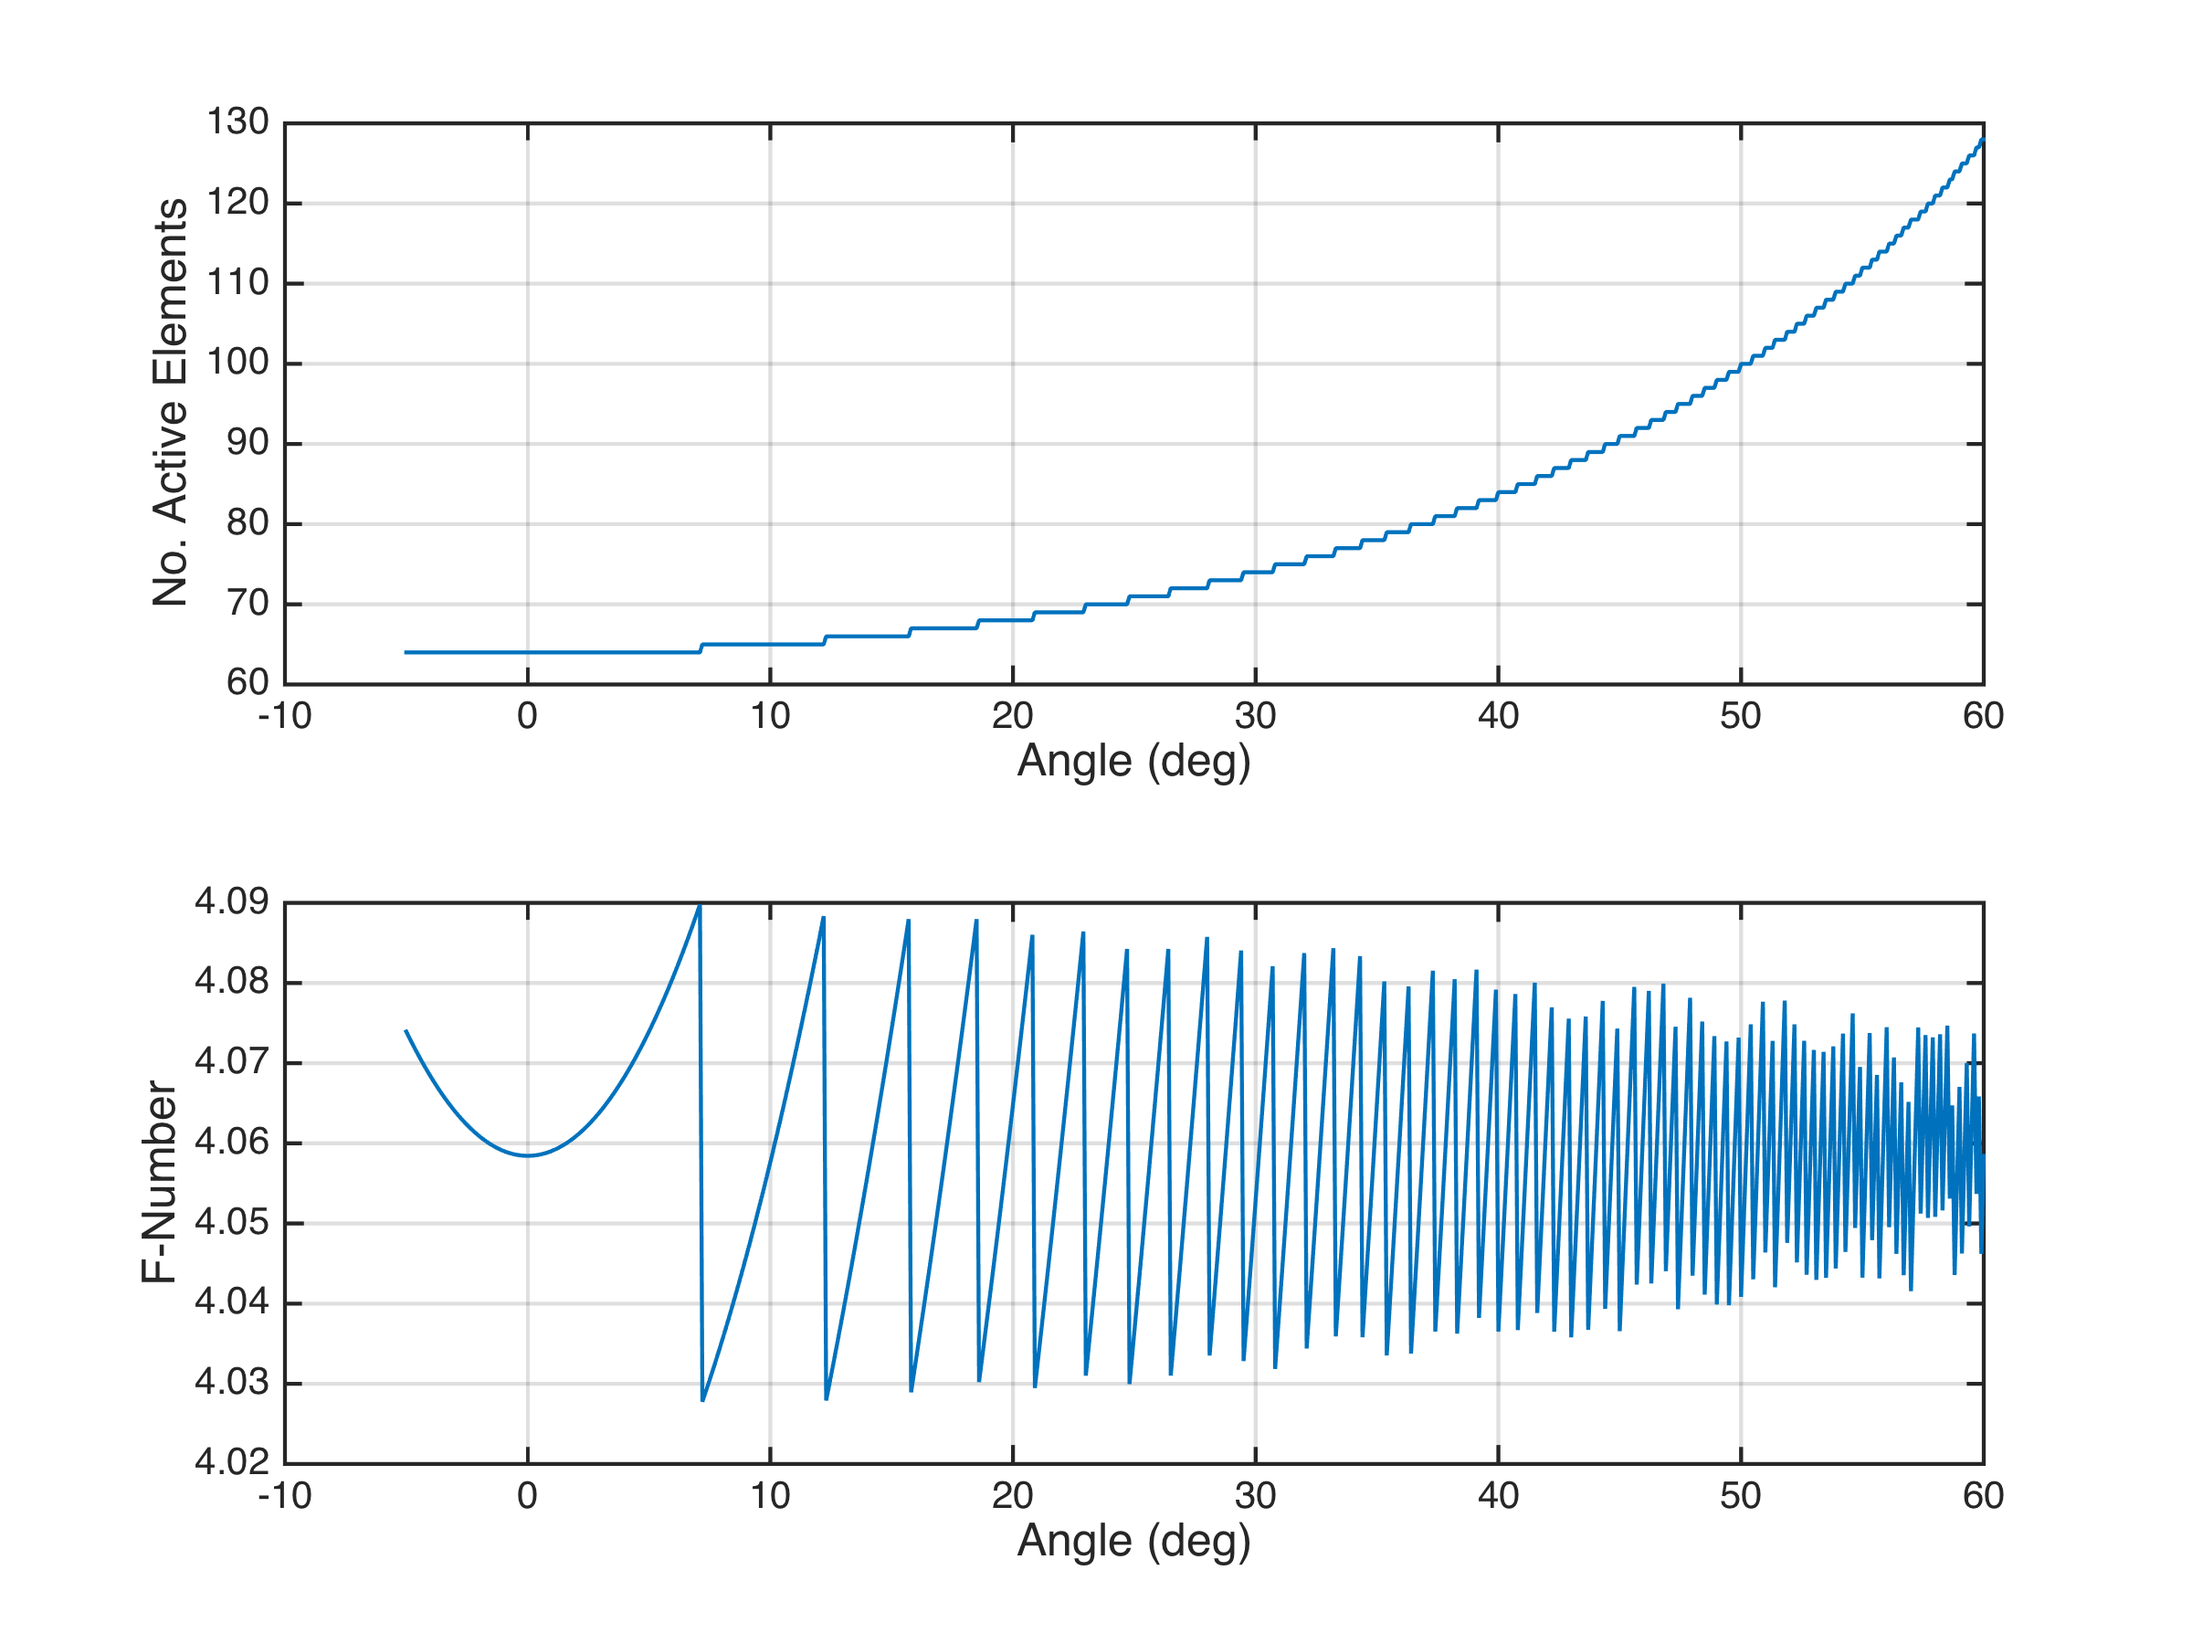
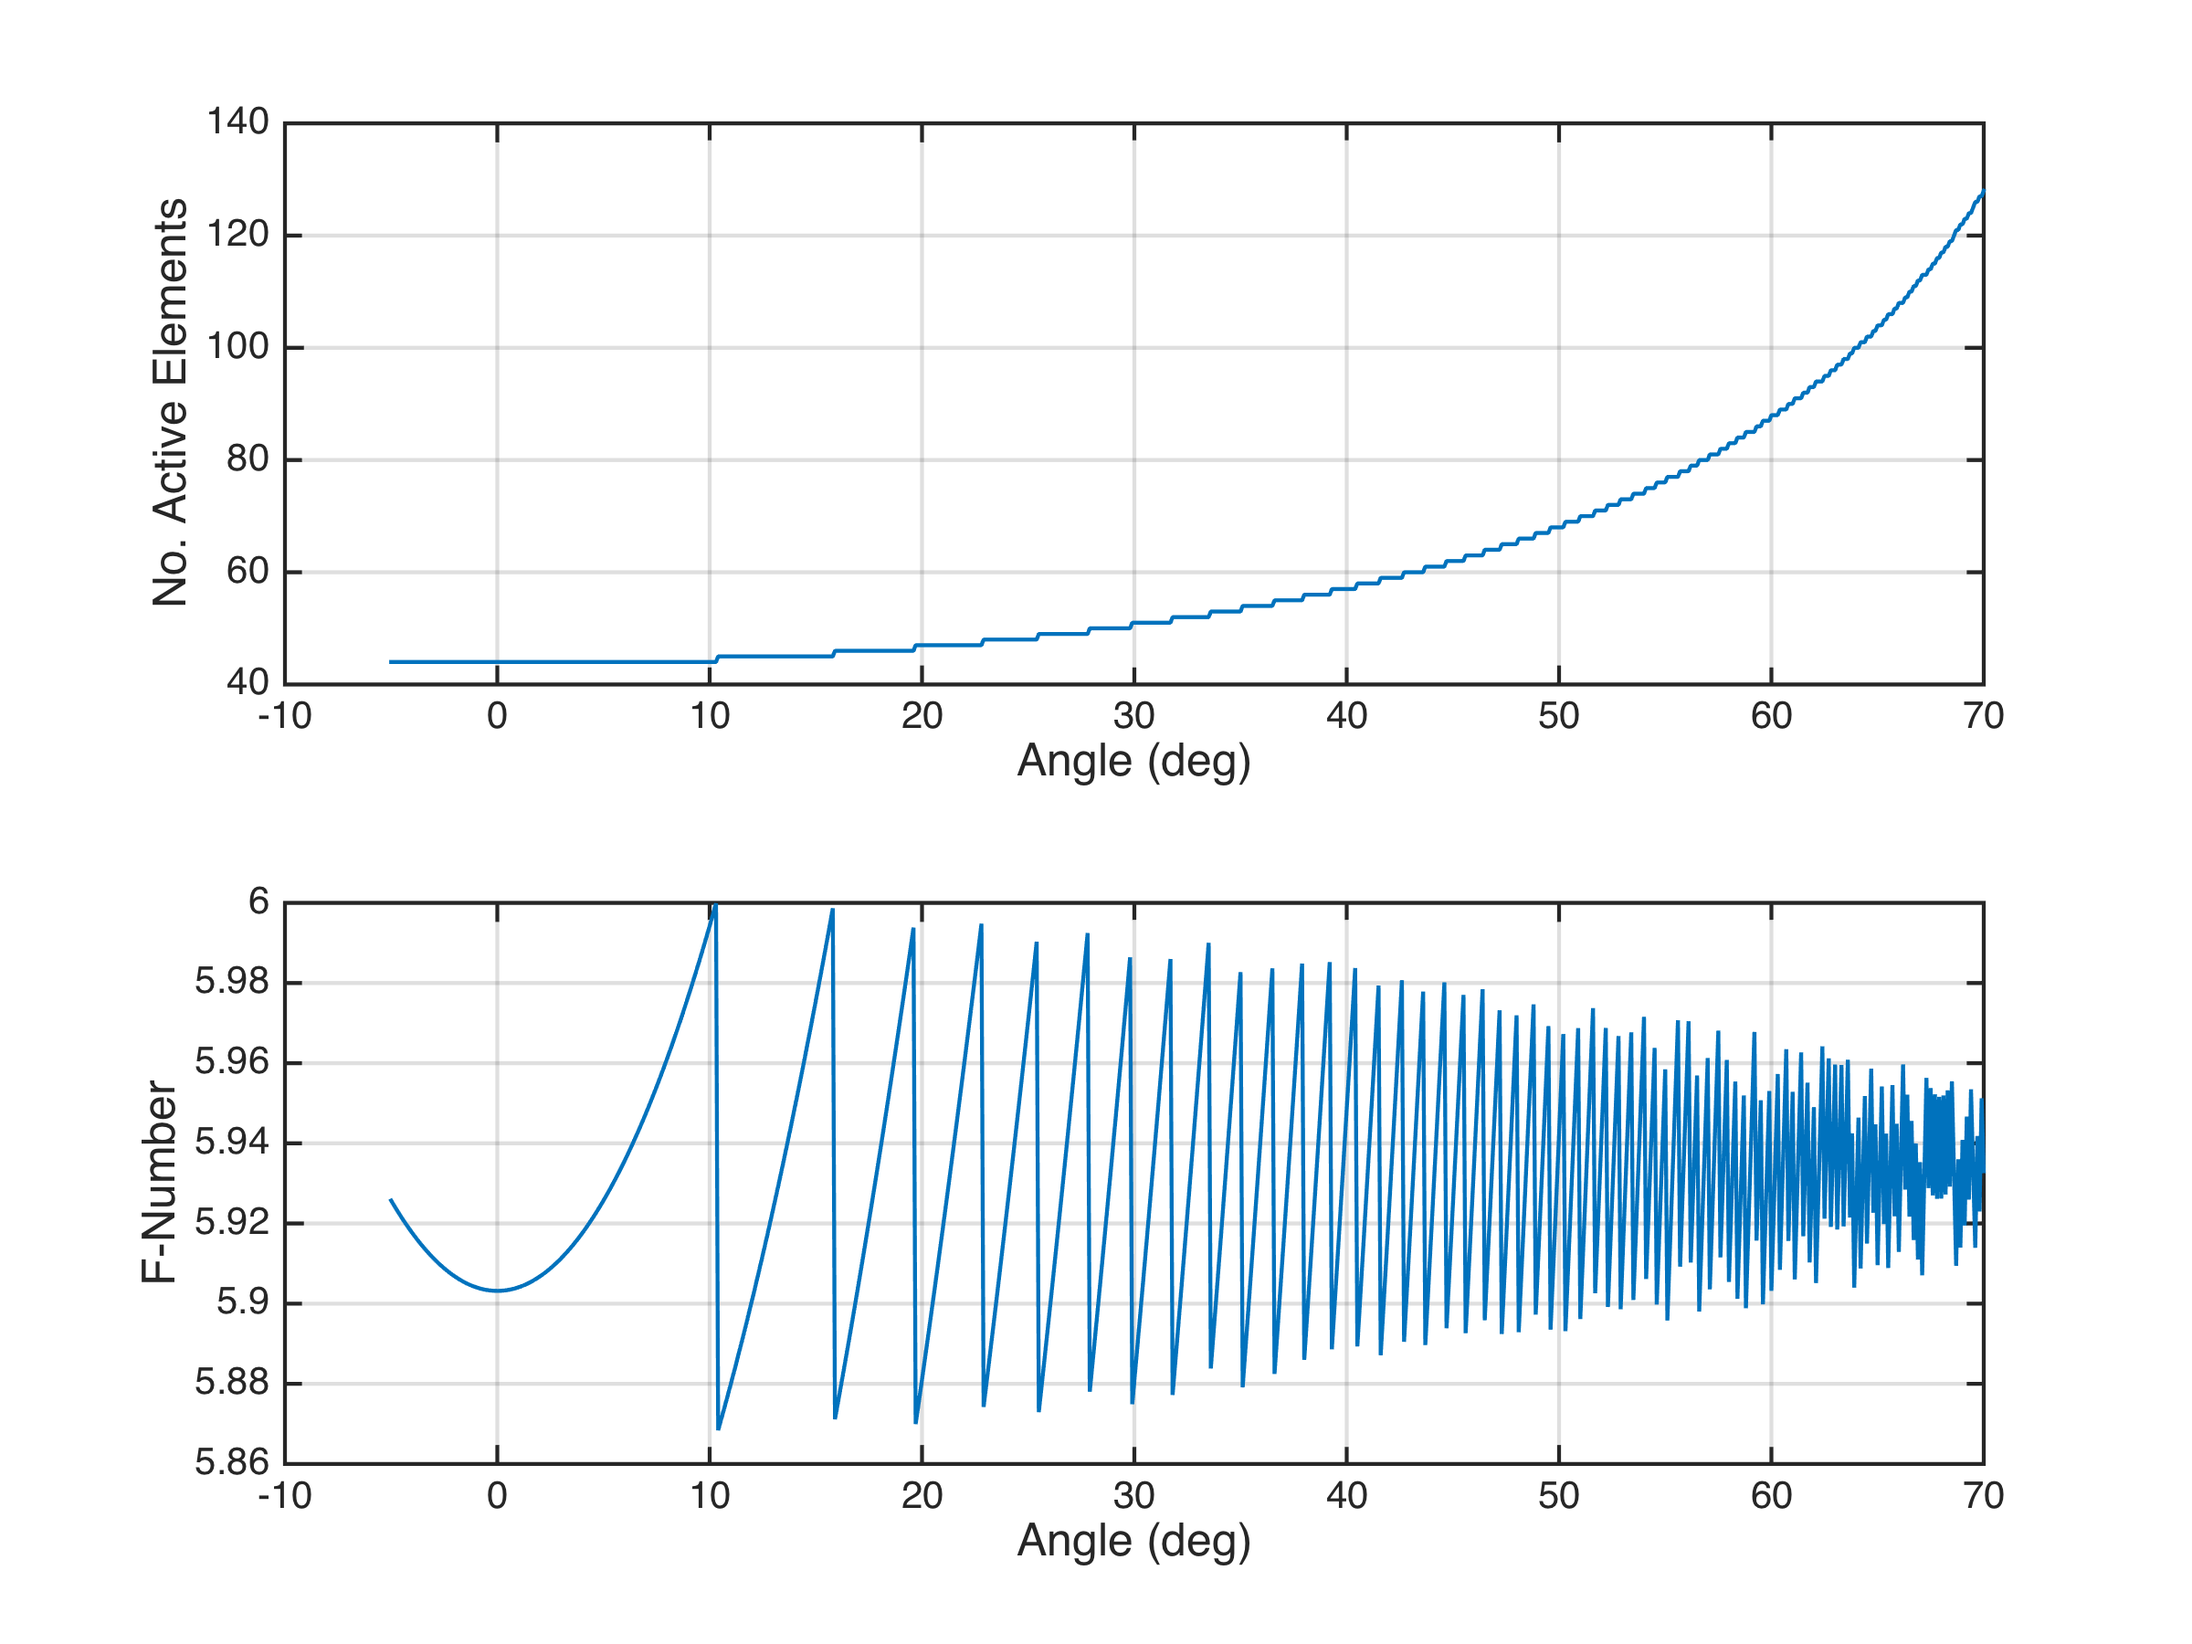
bme844 hw4 final revision

diff --git a/bme844_adv_ultrasound/hw4_steering_apt_growth_scat.m b/bme844_adv_ultrasound/hw4_steering_apt_growth_scat.m
@@ -24,6 +24,10 @@ focus=[0 0 elv_focus]; %focus at 4 cm depth
 maxth = 60;
 th_scan = [-5:0.1:maxth]*pi/180;
 th_target = [0:10:maxth-10]*pi/180;
+
+% maxth = 70;
+% th_scan = [-5:0.1:maxth]*pi/180;
+% th_target = [0:5:maxth-10]*pi/180;
 foc_z = focus(3);
 
 N_el_tot = 128;
@@ -53,6 +57,7 @@ for n = 1:2
                     fill = N_el_tot-2*pad-length(tmp2);
                     apod = [padarray(tmp2,[0,pad]) zeros(1,fill)];
                 end
+                clear tmp1 tmp2
                 el(nn) = length(find(apod == 1));
                 Fnum(nn) = foc_z/(el(nn)*el_width*cos(th_scan(nn)));
 
@@ -91,18 +96,19 @@ for n = 1:2
         idx = find(r{n,i}*100>3.8 & r{n,i}*100<4.2);
         env_trim{n,i} = env{n,i}(idx,:);
         rf_trim{n,i} = rf{n,i}(idx,:);
-
         
+        tmp1 = diff(r{n,i});
+        tmp2 = diff(th_scan);
+        T_y(n,i) = 1000*tmp1(1);
+        T_x(n,i) = tmp2(1);
+        clear tmp1 tmp2
+        k_y{n,i} = (1/(2*T_y(n,i)))*linspace(-1,1,length(idx));
+        k_x{n,i} = (1/(2*T_x(n,i)))*linspace(-1,1,length(th_scan));
+
         env_trim_k{n,i} = fftshift(fft2(env_trim{n,i}));
         rf_trim_k{n,i} = fftshift(fft2(rf_trim{n,i}));
-        
-    %     figure
-    % %     imagesc(l,ax,out,[-40 0]); axis image; colormap gray;
-    %     imagesc(th_scan,r{i}(idx)*100,env_trim{i}); axis image; colormap jet;
 
-    %     figure
-    %     imagesc(th_scan,r{i}(idx)*100,rf_trim{i}); axis image; colormap jet;
-    %     
+        % calculate correlation via xcorr in spatial domain with kernel
         if th_target(i) == 0
             k_i = find(r{n,i}*100>4 & r{n,i}*100<4.15);
             k_j = find(th_scan>-0.05 & th_scan<0.05);
@@ -110,25 +116,18 @@ for n = 1:2
             rf_kernel = rf{n,i}(k_i,k_j);
         end
 
-    %     figure
-    %     imagesc(env_kernel)
-
-    %     figure
-    %     imagesc(rf_kernel)
-
         C_env{n,i} = normxcorr2(env_kernel,env_trim{n,i});
         C_rf{n,i} = normxcorr2(rf_kernel,rf_trim{n,i});
 
         Cmax_env(n,i) = max(C_env{n,i}(:));
         Cmax_rf(n,i) = max(C_rf{n,i}(:));
 
-    %     figure, imagesc(C_env{i}), colormap jet, colorbar
-    %     figure, imagesc(C_rf{i}), colormap jet, colorbar
-    %     figure
-    %     imagesc(th_scan,r{i}*100,C_env{i}); axis image; colormap jet; colorbar;
-    %     
-    %     figure
-    %     imagesc(th_scan,r{i}*100,C_rf{i}); axis image; colormap jet; colorbar;
+        % calculate correlation via normalized k-space product
+        kC_env(n,i) = sum(sum(abs(env_trim_k{n,1}).*abs(env_trim_k{n,i})))/...
+            sqrt(sum(sum(abs(env_trim_k{n,1}).^2))*sum(sum(abs(env_trim_k{n,i}).^2)));
+        kC_rf(n,i) = sum(sum(abs(rf_trim_k{n,1}).*abs(rf_trim_k{n,i})))/...
+            sqrt(sum(sum(abs(rf_trim_k{n,1}).^2))*sum(sum(abs(rf_trim_k{n,i}).^2)));
+        
         disp(['Image at angle ' num2str(rad2deg(th_target(i))) ' simulated.'])
     end
     xdc_free(tx); xdc_free(rx);
@@ -147,26 +146,88 @@ print -dpng -r300 ./hw4_aperture.png
 figure, hold on;
 p1 = plot(rad2deg(th_target), Cmax_env(1,:),'bx-','linewidth',2)
 p2 = plot(rad2deg(th_target), Cmax_env(2,:),'rx-','linewidth',2)
-grid on
+grid on,ylim([0.90 1])
 hold off
 legend([p1 p2],{'Aperture growth','Fixed aperture'},'fontsize',12,'location','southwest')
 xlabel('Angle (deg)','fontsize',12)
-ylabel('Normalized Correlation Coefficient','fontsize',12)
-title('PSF Decorrlation (Envelope Detected)','fontsize',12)
+ylabel('Correlation','fontsize',12)
+title('PSF Decorrelation (Envelope Detected)','fontsize',12)
 
 print -dpng -r300 ./hw4_psf_corr_env.png
 
 figure, hold on;
 p3 = plot(rad2deg(th_target), Cmax_rf(1,:),'bx-','linewidth',2)
 p4 = plot(rad2deg(th_target), Cmax_rf(2,:),'rx-','linewidth',2)
-grid on
+grid on, ylim([0.90 1])
 hold off
 legend([p3 p4],{'Aperture growth','Fixed aperture'},'fontsize',12,'location','southwest')
 xlabel('Angle (deg)','fontsize',12)
-ylabel('Normalized Correlation Coefficient')
+ylabel('Correlation')
 title('PSF Decorrelation (RF)','fontsize',12)
 
 print -dpng -r300 ./hw4_psf_corr_rf.png
+
+figure, hold on;
+p1 = plot(rad2deg(th_target), kC_env(1,:),'bx-','linewidth',2)
+p2 = plot(rad2deg(th_target), kC_env(2,:),'rx-','linewidth',2)
+grid on,ylim([0.90 1])
+hold off
+legend([p1 p2],{'Aperture growth','Fixed aperture'},'fontsize',12,'location','southwest')
+xlabel('Angle (deg)','fontsize',12)
+ylabel('Correlation','fontsize',12)
+title('PSF Decorrelation (Envelope Detected)','fontsize',12)
+
+print -dpng -r300 ./hw4_psf_corr_env_kspace.png
+
+figure, hold on;
+p3 = plot(rad2deg(th_target), kC_rf(1,:),'bx-','linewidth',2)
+p4 = plot(rad2deg(th_target), kC_rf(2,:),'rx-','linewidth',2)
+grid on, ylim([0.90 1])
+hold off
+legend([p3 p4],{'Aperture growth','Fixed aperture'},'fontsize',12,'location','southwest')
+xlabel('Angle (deg)','fontsize',12)
+ylabel('Correlation')
+title('PSF Decorrelation (RF)','fontsize',12)
+
+print -dpng -r300 ./hw4_psf_corr_rf_kspace.png
+
+
+ylims = [-10 10];
+xlims = [-100 100];
+
+figure
+subplot(131)
+imagesc(k_x{1,1},k_y{1,1},abs(rf_trim_k{1,1})); colormap jet; 
+ylim(ylims), xlim(xlims)
+xlabel('k\theta (1/rads)','fontsize',12), ylabel('kr (1/mm)','fontsize',12)
+title(['K-space ' num2str(rad2deg(th_target(1))) ' deg (Aperture Growth)'],'fontsize',12)
+subplot(132)
+imagesc(k_x{1,2},k_y{1,2},abs(rf_trim_k{1,2})); colormap jet; 
+ylim(ylims), xlim(xlims)
+xlabel('k\theta (1/rads)','fontsize',12), ylabel('kr (1/mm)','fontsize',12)
+title(['K-space ' num2str(rad2deg(th_target(2))) ' deg (Aperture Growth)'],'fontsize',12)
+subplot(133)
+imagesc(k_x{1,end},k_y{1,end},abs(rf_trim_k{1,end})); colormap jet; 
+ylim(ylims), xlim(xlims)
+xlabel('k\theta (1/rads)','fontsize',12), ylabel('kr (1/mm)','fontsize',12)
+title(['K-space ' num2str(rad2deg(th_target(end))) ' deg (Aperture Growth)'],'fontsize',12)
+
+figure
+subplot(131)
+imagesc(k_x{2,1},k_y{2,1},abs(rf_trim_k{2,1})); colormap jet;
+ylim(ylims), xlim(xlims)
+xlabel('k\theta (1/rads)','fontsize',12), ylabel('kr (1/mm)','fontsize',12)
+title(['K-space ' num2str(rad2deg(th_target(1))) ' deg (Fixed Aperture)'],'fontsize',12)
+subplot(132)
+imagesc(k_x{2,2},k_y{2,2},abs(rf_trim_k{2,2})); colormap jet; 
+ylim(ylims), xlim(xlims)
+xlabel('k\theta (1/rads)','fontsize',12), ylabel('kr (1/mm)','fontsize',12)
+title(['K-space ' num2str(rad2deg(th_target(2))) ' deg (Fixed Aperture)'],'fontsize',12)
+subplot(133)
+imagesc(k_x{2,end},k_y{2,end},abs(rf_trim_k{2,end})); colormap jet; 
+ylim(ylims), xlim(xlims)
+xlabel('k\theta (1/rads)','fontsize',12), ylabel('kr (1/mm)','fontsize',12)
+title(['K-space ' num2str(rad2deg(th_target(end))) ' deg (Fixed Aperture)'],'fontsize',12)
 
 field_end
 
